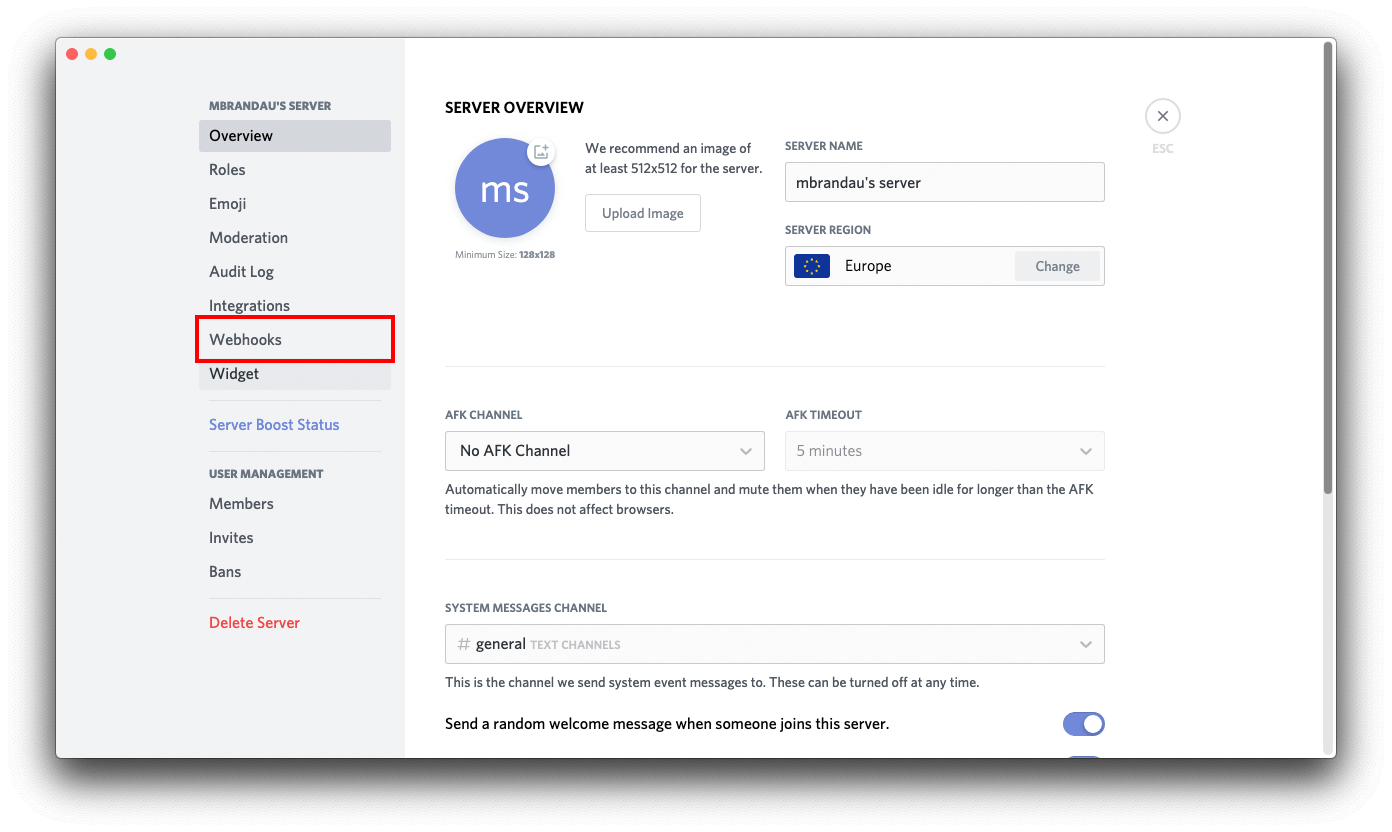
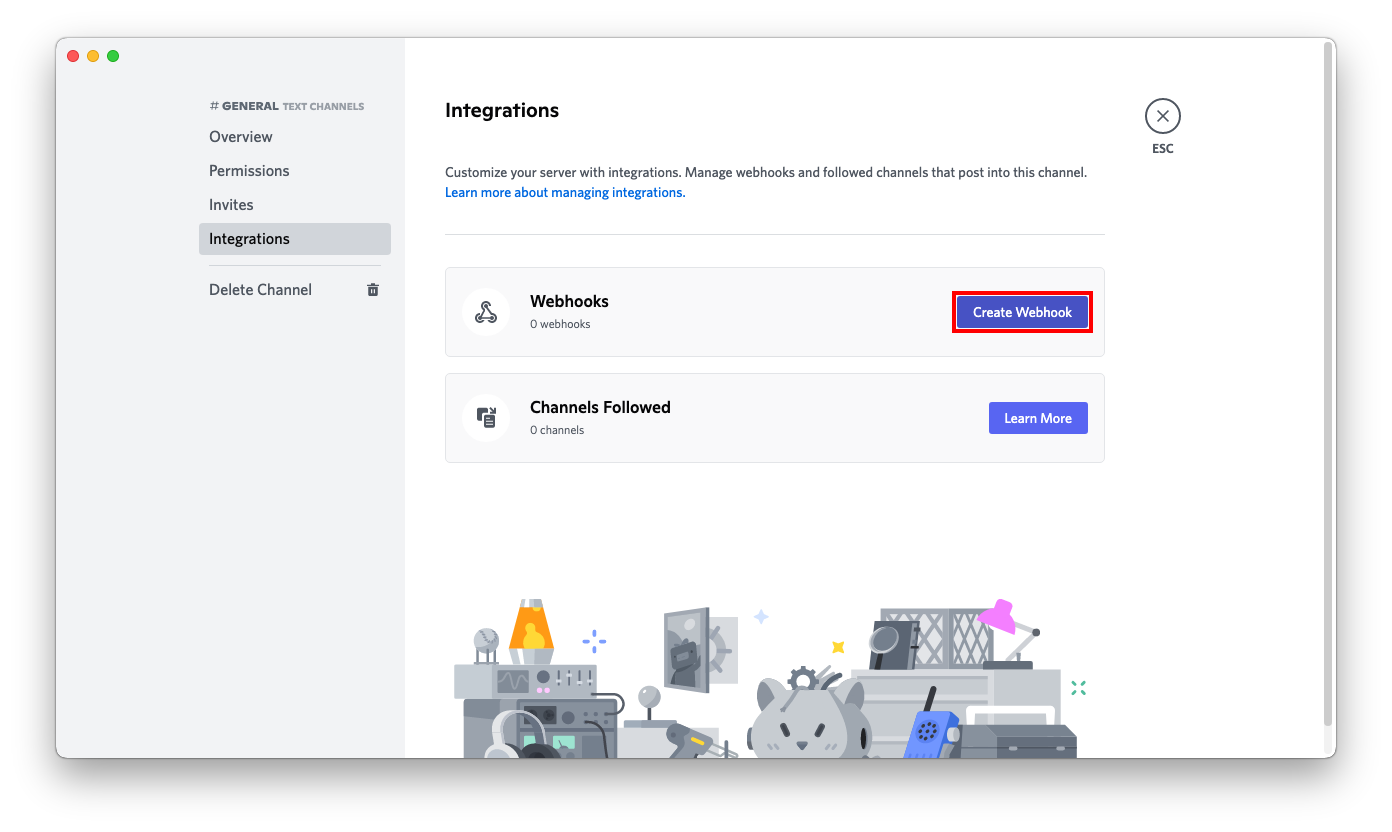
docs(discord): update Discord walkthrough and screenshots

diff --git a/docs/services/discord.md b/docs/services/discord.md
@@ -16,26 +16,26 @@ The shoutrrr service URL should look like this:
 
 ## Creating a webhook in Discord
 
-1. Open your server settings by first clicking on the name of the server.
+1. Open your channel settings by first clicking on the gear icon next to the name of the channel.
 ![Screenshot 1](discord/sc-1.png)
 
-2. Then click on *Server Settings*.
+2. In the menu on the left, click on *Integrations*.
 ![Screenshot 2](discord/sc-2.png)
 
-3. In the menu on the left, click on *Webhooks*.
+3. In the menu on the right, click on *Create Webhook*.
 ![Screenshot 3](discord/sc-3.png)
 
-4. In the top right corner, click on *Create Webhook*.
+4. Set the name, channel and icon to your liking and click the *Copy Webhook URL* button.
 ![Screenshot 4](discord/sc-4.png)
 
-5. Set name, channel and icon to your liking and copy the *Webhook URL* on the bottom. Then click save.
+5. Press the *Save Changes* button.
 ![Screenshot 5](discord/sc-5.png)
 
-6. Format the service URL
+6. Format the service URL:
 ```
 https://discord.com/api/webhooks/693853386302554172/W3dE2OZz4C13_4z_uHfDOoC7BqTW288s-z1ykqI0iJnY_HjRqMGO8Sc7YDqvf_KVKjhJ
-                                    └────────────────┘ └──────────────────────────────────────────────────────────────────┘
-                                        webhook id                                    token
+                                 └────────────────┘ └──────────────────────────────────────────────────────────────────┘
+                                     webhook id                                    token
 
 discord://W3dE2OZz4C13_4z_uHfDOoC7BqTW288s-z1ykqI0iJnY_HjRqMGO8Sc7YDqvf_KVKjhJ@693853386302554172
           └──────────────────────────────────────────────────────────────────┘ └────────────────┘
